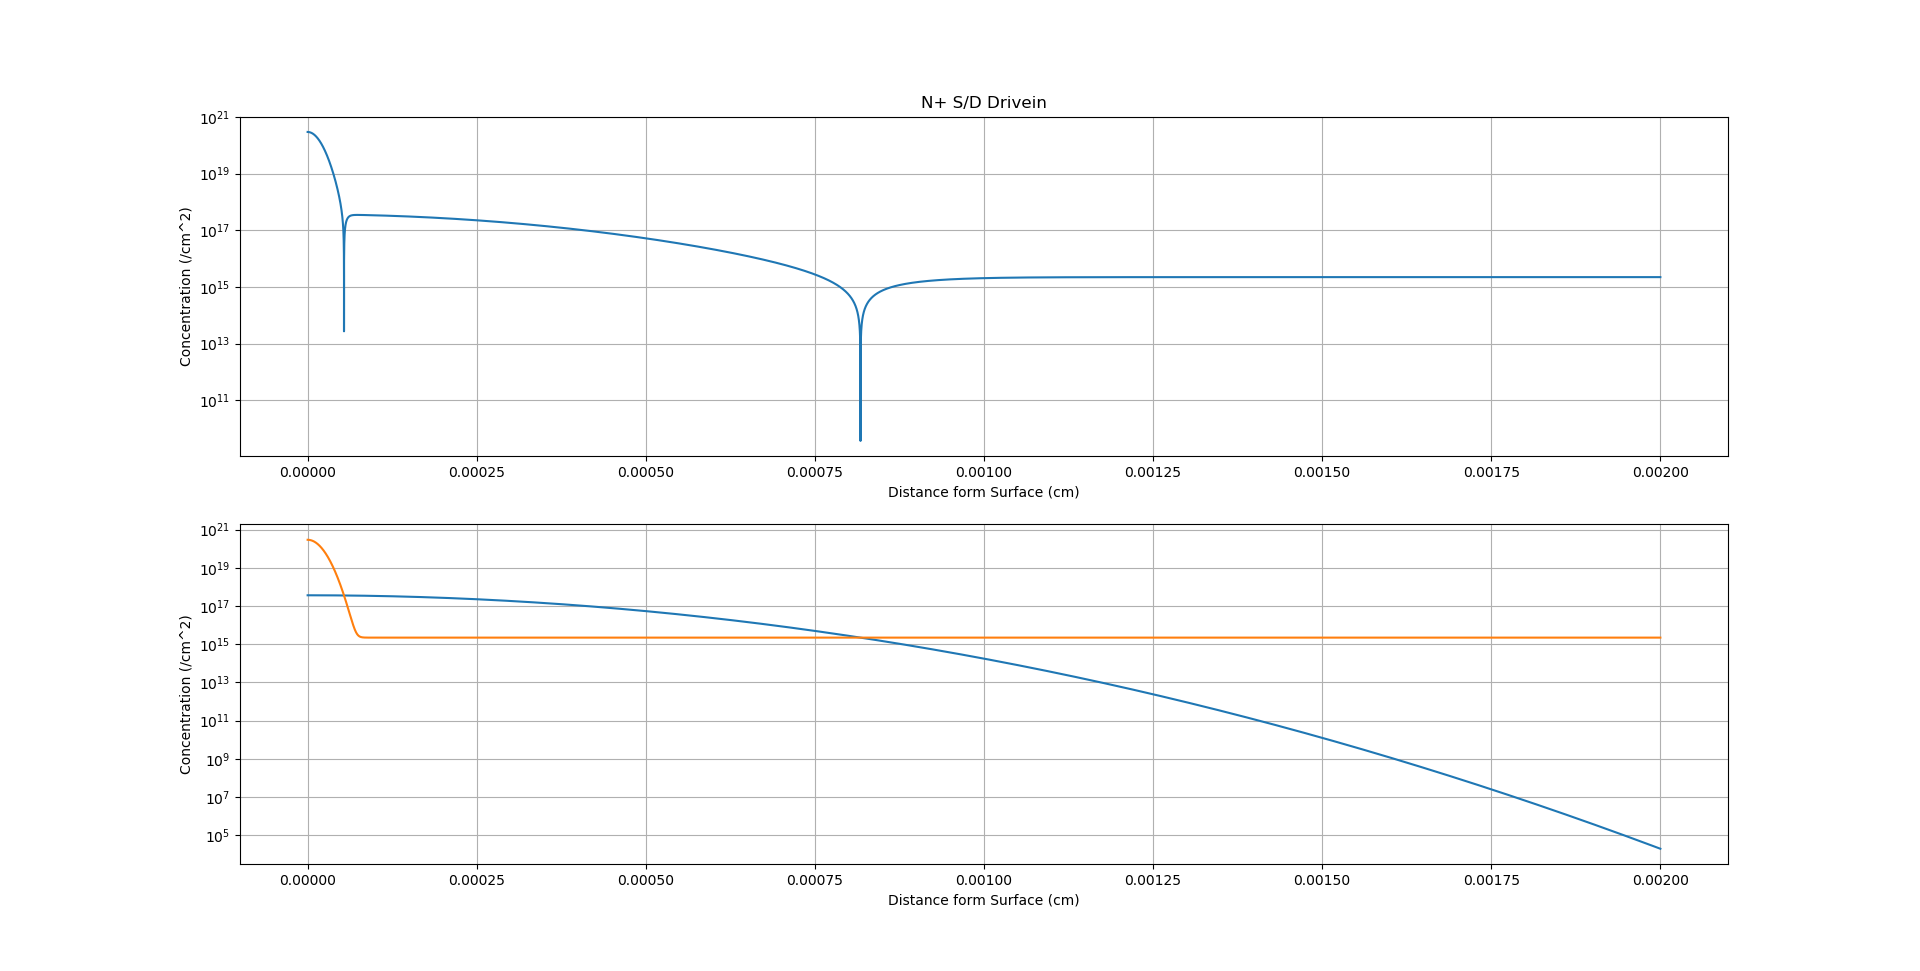
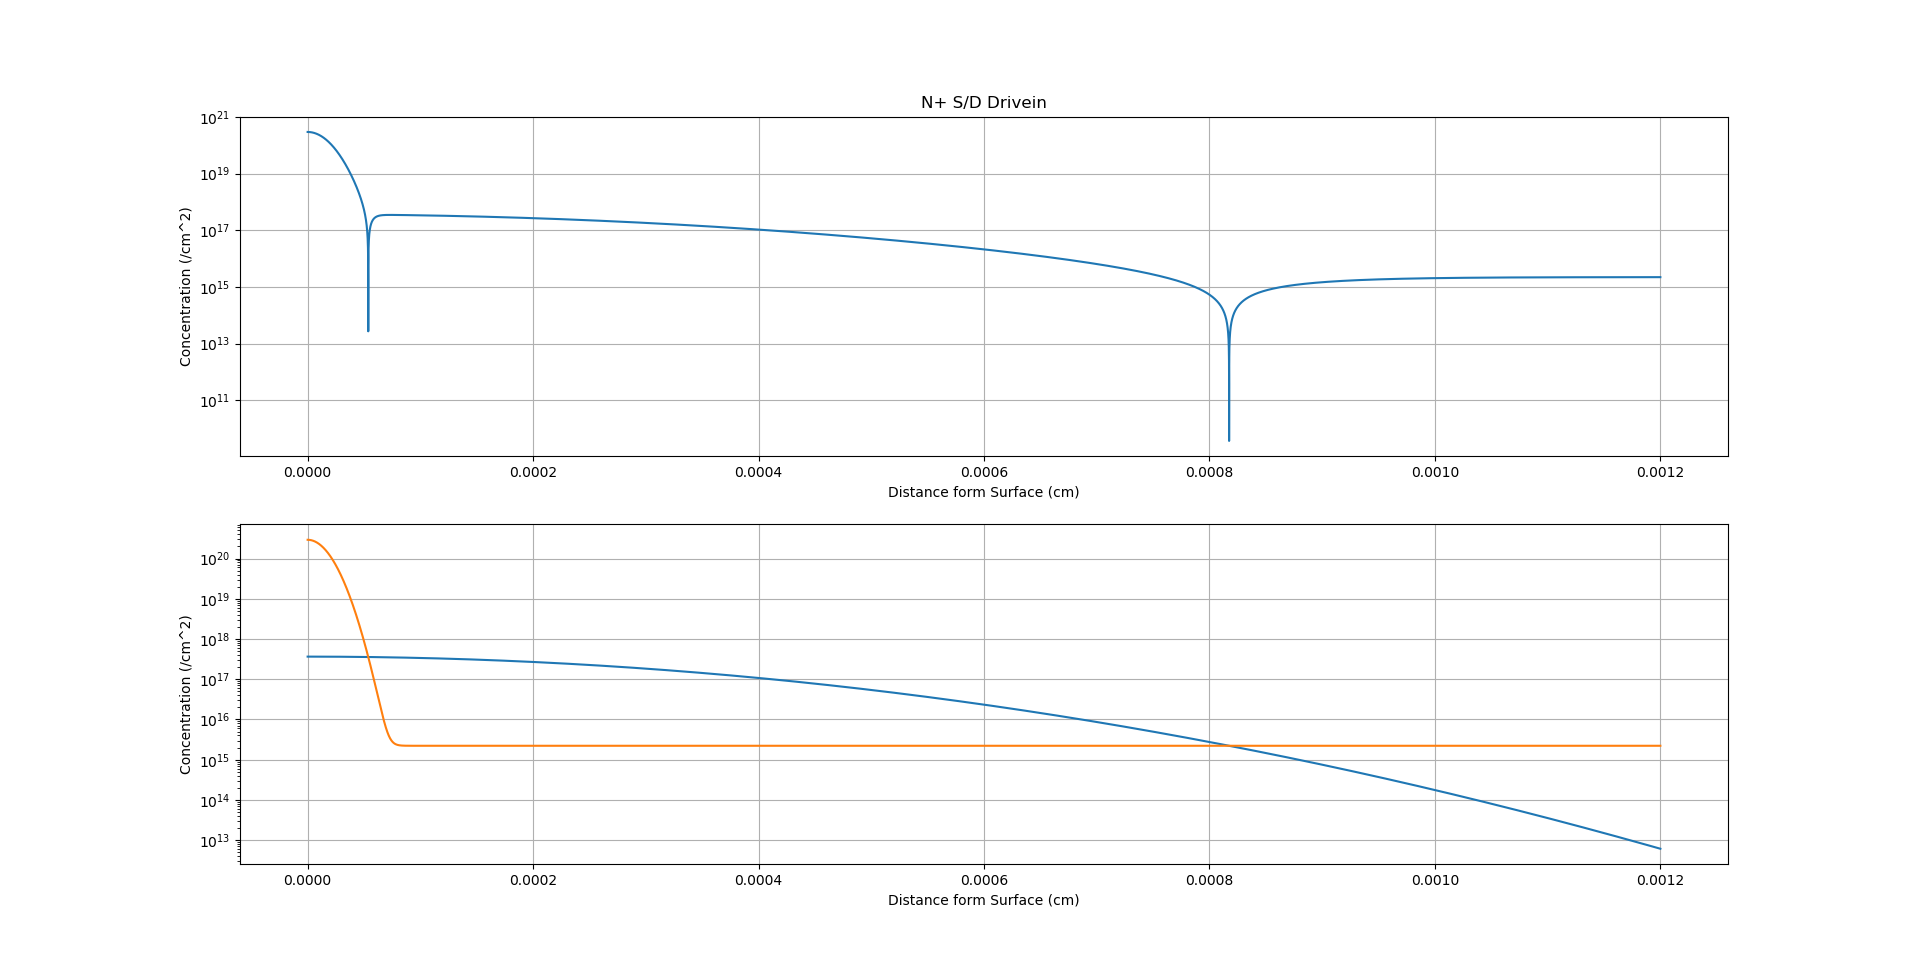
tweaked parameters

diff --git a/pWell.py b/pWell.py
@@ -1,7 +1,7 @@
 from Wafer import Wafer
 import matplotlib.pyplot as plt
 
-W = Wafer(0.002,'n',2.22e15,1.0e-9)
+W = Wafer(0.0012,'n',2.22e15,1.0e-9)
 x = []
 
 # Create x for plots
@@ -17,7 +17,7 @@ xj = W.extract_xj()
 print "xj"
 print xj
 print "Cs"
-print W.p_profile[0]
+print W.net_profile[0]
 plt.figure(1)
 plt.subplot(211)
 plt.title('P-well Predeposition')
@@ -42,7 +42,7 @@ xj = W.extract_xj()
 print "xj"
 print xj
 print "Cs"
-print W.p_profile[0]
+print W.net_profile[0]
 plt.figure(2)
 plt.subplot(211)
 plt.title('P-well Drivein')
@@ -66,7 +66,7 @@ xj = W.extract_xj()
 print "xj"
 print xj
 print "Cs"
-print W.p_profile[0]
+print W.net_profile[0]
 plt.figure(3)
 plt.subplot(211)
 plt.title('P+ S/D Predep')
@@ -90,7 +90,7 @@ xj = W.extract_xj()
 print "xj"
 print xj
 print "Cs"
-print W.p_profile[0]
+print W.net_profile[0]
 plt.figure(4)
 plt.subplot(211)
 plt.title('P+ S/D Drivein')
@@ -113,10 +113,8 @@ W.predep(2*60*60,950,'n',7e20)
 xj = W.extract_xj()
 print "xj"
 print xj
-print "Cs, p"
-print W.p_profile[0]
-print "Cs, n"
-print W.n_profile[0]
+print "Cs"
+print W.net_profile[0]
 plt.figure(5)
 plt.subplot(211)
 plt.title('N+ S/D Predeposition')
@@ -140,10 +138,8 @@ W.drivein(40*60,1000,'n', False, 2)
 xj = W.extract_xj()
 print "xj"
 print xj
-print "Cs, p"
-print W.p_profile[0]
-print "Cs, n"
-print W.n_profile[0]
+print "Cs"
+print W.net_profile[0]
 plt.figure(6)
 plt.subplot(211)
 plt.title('N+ S/D Drivein')

diff --git a/psd.py b/psd.py
@@ -1,7 +1,7 @@
 from Wafer import Wafer
 import matplotlib.pyplot as plt
 
-W = Wafer(0.002,'n',2.22e15,1.0e-9)
+W = Wafer(0.0012,'n',2.22e15,1.0e-9)
 x = []
 
 # Create x for plots
@@ -16,7 +16,7 @@ xj = W.extract_xj()
 print "xj"
 print xj
 print "Cs"
-print W.p_profile[0]
+print W.net_profile[0]
 plt.figure(1)
 plt.subplot(211)
 plt.title('P+ S/D Predep')
@@ -40,7 +40,7 @@ xj = W.extract_xj()
 print "xj"
 print xj
 print "Cs"
-print W.p_profile[0]
+print W.net_profile[0]
 plt.figure(2)
 plt.subplot(211)
 plt.title('P+ S/D Drivein')
@@ -64,7 +64,7 @@ xj = W.extract_xj()
 print "xj"
 print xj
 print "Cs"
-print W.p_profile[0]
+print W.net_profile[0]
 plt.figure(3)
 plt.subplot(211)
 plt.title('N+ S/D Predeposition')
@@ -88,7 +88,7 @@ xj = W.extract_xj()
 print "xj"
 print xj
 print "Cs"
-print W.p_profile[0]
+print W.net_profile[0]
 plt.figure(4)
 plt.subplot(211)
 plt.title('N+ S/D Drivein')
